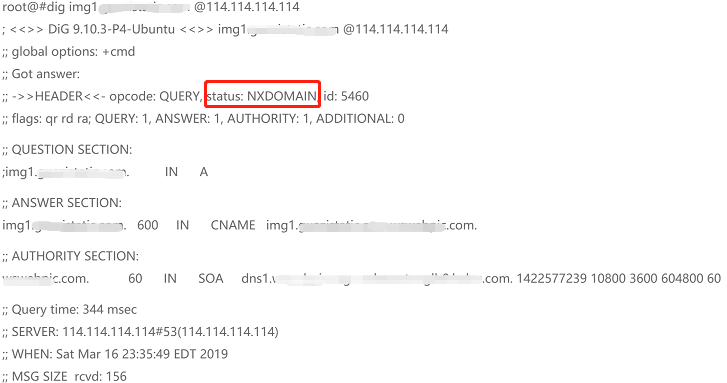
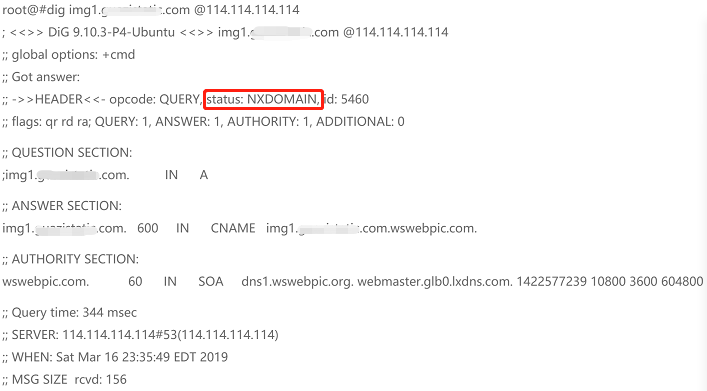
Site updated: 2019-04-02 16:10:53

diff --git a/2019/03/27/优质漏洞分享_实时更新/index.html b/2019/03/27/优质漏洞分享_实时更新/index.html
@@ -156,7 +156,7 @@
             </div>
             <!-- Post -->
             <div class="typo" style="padding: 3rem;">
-                <blockquote>
+                <h3 id="二"><a href="#二" class="headerlink" title="二"></a>二</h3><blockquote>
 <p>主要是记录一些不常见，看一眼就会忘的那种漏洞</p>
 </blockquote>
 <table>
@@ -183,14 +183,13 @@
 </tr>
 </tbody>
 </table>
-<p>##</p>
-<p>##一、子域名劫持</p>
-<blockquote>
+<h2 id="一、子域名劫持"><a href="#一、子域名劫持" class="headerlink" title="一、子域名劫持"></a>一、子域名劫持</h2><blockquote>
 <p>此处以某SRC为例，探究子域名劫持的原理及危害</p>
 </blockquote>
-<p>###原理<br>某域名(子域名)在更换CDN时，未及时更新CNAME记录，导致CNAME记录仍然存在，攻击者可以在网宿CDN绑定上改域名，从而劫持改子域名。分析使用dig命令</p>
-<p>###探究<br>1、使用dig探测某子域名，img1.aim.com,发现状态为NXDOMAIN(意为域名不存在，Non-Existent)，域名服务器声明查询域名确实是自己所解析，但是自己的记录里没有这个域名</p>
-<p><img src="https://raw.githubusercontent.com/Kaleryou/kaleryou.github.io/master/tupian/singularity-1.png" alt="singularity-1"></p>
+<h3 id="原理"><a href="#原理" class="headerlink" title="原理"></a>原理</h3><p>某域名(子域名)在更换CDN时，未及时更新CNAME记录，导致CNAME记录仍然存在，攻击者可以在网宿CDN绑定上改域名，从而劫持改子域名。分析使用dig命令</p>
+<h3 id="探究"><a href="#探究" class="headerlink" title="探究"></a>探究</h3><p>1、使用dig探测某子域名，img1.aim.com,发现状态为NXDOMAIN(意为域名不存在，Non-Existent)，域名服务器声明查询域名确实是自己所解析，但是自己的记录里没有这个域名</p>
+<p><img src="https://raw.githubusercontent.com/Kaleryou/kaleryou.github.io/master/tupian/singularity-1.png" alt="singularity-1"><br>2、可以看出域名img1.aim.com的CNAME记录指向 img1.aim.com.wswebpic.com，而网宿的DNS “img1.aim.com.wswebpic.com” 已不支持解析该DNS请求，CDN加速业务已停止<br>以下是dig检测该域名 img.aim.com的追踪DNS解析全过程如下：<br><img src="https://raw.githubusercontent.com/Kaleryou/kaleryou.github.io/master/tupian/singularity-2.png" alt="singularity-2"><br><img src="https://raw.githubusercontent.com/Kaleryou/kaleryou.github.io/master/tupian/singularity-3.png" alt="singularity-3"><br>3、攻击者可以在网宿CDN购买套餐，并绑定该域名，从而劫持该域名</p>
+<h3 id="修复"><a href="#修复" class="headerlink" title="修复"></a>修复</h3><p>在更换CDN时，即使更新相关DNS记录配置</p>
 
             </div>
 
